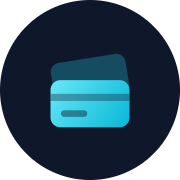
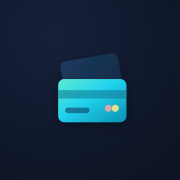
Add files via upload

diff --git a/js/creditos-ui.js b/js/creditos-ui.js
@@ -575,6 +575,7 @@ function confirmImportCreditoPlan(){
 
 let creditoOcultarPagadas=true;
 let _pendingEditCredito=null; // {id, apply()} — cambios de saveEditCredito pendientes de confirmar cuando hay abonos registrados
+let _pendingEditCreditoCuotaManual=null; // {id, continuar(limpiarCuotaManual)} — ver aviso de "cuota manual fija" en saveEditCredito
 // true cuando se entró al detalle del crédito desde el modal "Créditos" (openCreditosMenu,
 // atajo del dashboard); false cuando se entró desde la pestaña Créditos/tarjeta (vista de
 // fondo, no modal). El botón "Volver" del detalle lo usa para decidir si debe reabrir ese
@@ -804,18 +805,20 @@ function editCredito(id){
   const fechaActualEdit=(crPickerSnapshot&&('cr-edit-fecha' in crPickerSnapshot))?crPickerSnapshot['cr-edit-fecha']:cr.fechaInicio;
   openModal('<div class="mtitle">Editar crédito</div>'
     +warnPagos
-    +stdFormHeroCardHtml(stdFormNombreValorHtml('cr-edit-nombre',cr.nombre,'','cr-edit-valor',cr.valorPrestamo,'COP · valor del préstamo','var(--pur)'))
+    +stdFormHeroCardHtml(stdFormNombreValorHtml('cr-edit-nombre',cr.nombre,'','cr-edit-valor',cr.valorPrestamo,'COP · valor del préstamo','var(--pur)','updateCuotaSugeridaEdit()'))
     +'<div style="display:grid;grid-template-columns:1fr 1fr;gap:8px">'
-    +'<div class="field" style="margin:0"><label>% AVAL</label><input id="cr-edit-aval" type="number" step="0.01" value="'+(cr.pctAval||0)+'"></div>'
-    +'<div class="field" style="margin:0"><label>Cuotas</label><input id="cr-edit-cuotas" type="number" value="'+cr.cuotas+'"></div>'
+    +'<div class="field" style="margin:0"><label>% AVAL</label><input id="cr-edit-aval" type="number" step="0.01" value="'+(cr.pctAval||0)+'" oninput="updateCuotaSugeridaEdit()"></div>'
+    +'<div class="field" style="margin:0"><label>Cuotas</label><input id="cr-edit-cuotas" type="number" value="'+cr.cuotas+'" oninput="updateCuotaSugeridaEdit()"></div>'
     +'</div>'
     +'<div style="display:grid;grid-template-columns:1fr 1fr;gap:8px;margin-top:8px;align-items:end">'
-    +'<div class="field" style="margin:0"><label>Tasa de interés %</label><input id="cr-edit-tasa" type="number" step="0.01" value="'+(cr.tasa||0)+'"></div>'
+    +'<div class="field" style="margin:0"><label>Tasa de interés %</label><input id="cr-edit-tasa" type="number" step="0.01" value="'+(cr.tasa||0)+'" oninput="updateCuotaSugeridaEdit()"></div>'
     +stdFormDateFieldHtml('cr-edit-fecha','Fecha inicio',fechaActualEdit)
     +'</div>'
     +frecuenciaFieldHtml('cr-edit-frec',frecActual)
     +'<div class="field" style="margin-top:8px"><label>Valor de cuota manual (opcional)</label>'
-    +'<input id="cr-edit-cuota-manual" type="text" inputmode="numeric" value="'+(cr.valorCuotaManual?moneyInputFmt(cr.valorCuotaManual):'')+'" placeholder="Se sugiere automáticamente" oninput="maskMoneyInput(this)"></div>'
+    +'<input id="cr-edit-cuota-manual" type="text" inputmode="numeric" value="'+(cr.valorCuotaManual?moneyInputFmt(cr.valorCuotaManual):'')+'" placeholder="Se sugiere automáticamente" oninput="maskMoneyInput(this)">'
+    +'<div id="cr-edit-cuota-sugerida-txt" style="font-size:11px;color:var(--acc);margin-top:4px"></div>'
+    +'</div>'
     +'<div class="cbx-row" style="margin-top:2px"><input type="checkbox" id="cr-edit-esmens"'+(cr.esMensualidad?' checked':'')+'>'
     +'<label for="cr-edit-esmens" style="font-size:13px;color:var(--txt)">Es una mensualidad (colegio, transporte, suscripción...)</label></div>'
     +tarjetaVinculadaFieldHtml(tcVincActual||null)
@@ -823,6 +826,33 @@ function editCredito(id){
     +'<button class="bcnl" onclick="openCreditoDetalle(\''+id+'\')">Cancelar</button>'
     +'<button class="bpri" onclick="saveEditCredito(\''+id+'\')">Guardar</button>'
     +'</div>');
+  // A diferencia del formulario de crédito NUEVO (que arranca vacío y solo muestra la cuota
+  // sugerida cuando el usuario empieza a escribir), acá los campos ya traen los valores
+  // actuales del crédito — se calcula de una vez para que el placeholder no aparezca vacío.
+  updateCuotaSugeridaEdit();
+}
+// Espejo de updateCuotaSugerida() (creación) para el formulario de edición — mismos campos,
+// con el prefijo "cr-edit-" en vez de "cr-".
+function updateCuotaSugeridaEdit(){
+  const valor=moneyVal('cr-edit-valor');
+  const pctAval=parseFloat(document.getElementById('cr-edit-aval')?.value)||0;
+  const cuotas=parseInt(document.getElementById('cr-edit-cuotas')?.value)||0;
+  const tasaPct=parseFloat(document.getElementById('cr-edit-tasa')?.value)||0;
+  const txtEl=document.getElementById('cr-edit-cuota-sugerida-txt');
+  const inputManual=document.getElementById('cr-edit-cuota-manual');
+  if(!txtEl) return;
+  if(valor>0 && cuotas>0){
+    const aval=Math.round(valor*(pctAval/100));
+    const total=valor+aval;
+    const tasa=tasaPct/100;
+    const pmt=calcCuotaPMT(total,tasa,cuotas);
+    const pmtRedondeado=Math.round(pmt);
+    txtEl.innerHTML='AVAL: '+cop(aval)+' · Total: '+cop(total)+'<br>Cuota sugerida: '+cop(pmtRedondeado);
+    if(inputManual) inputManual.placeholder=cop(pmtRedondeado)+' (sugerida)';
+  } else {
+    txtEl.textContent='';
+    if(inputManual) inputManual.placeholder='Se sugiere automáticamente';
+  }
 }
 function saveEditCredito(id){
   const cr=creditos[id]; if(!cr) return;
@@ -862,15 +892,37 @@ function saveEditCredito(id){
   // nuevo (donde basta con borrar creditos[id]), acá cr YA es un objeto en uso; sin revertir,
   // un error a mitad de camino dejaba el crédito con campos nuevos pero sin invalidar/guardar,
   // en un estado a medias que solo se notaba al ver números raros más adelante.
-  function aplicarCambiosEdicion(){
+  function aplicarCambiosEdicion(opts){
+    opts=opts||{};
     const snapshot={nombre:cr.nombre,valorPrestamo:cr.valorPrestamo,pctAval:cr.pctAval,cuotas:cr.cuotas,
       tasa:cr.tasa,fechaInicio:cr.fechaInicio,frecuencia:cr.frecuencia,valorCuotaManual:cr.valorCuotaManual,
       esMensualidad:cr.esMensualidad,tcVinculada:cr.tcVinculada};
     try{
       cr.nombre=nombre; cr.valorPrestamo=valorPrestamo; cr.pctAval=pctAval;
       cr.cuotas=cuotas; cr.tasa=tasa; cr.fechaInicio=fechaInicio; cr.frecuencia=frecuencia;
-      cr.valorCuotaManual=cuotaManual; cr.esMensualidad=esMensualidad; cr.tcVinculada=tcVinculada;
+      // opts.limpiarCuotaManual=true: el usuario eligió "recalcular automático" en el aviso de
+      // cuota manual fija (ver más abajo) — se ignora el valor que haya quedado en el campo y se
+      // deja que calcAmortizacionSinCache vuelva a calcularla con la fórmula PMT normal.
+      cr.valorCuotaManual=opts.limpiarCuotaManual?null:cuotaManual;
+      cr.esMensualidad=esMensualidad; cr.tcVinculada=tcVinculada;
       invalidarAmortCache(id); // los campos que definen la tabla de amortización cambiaron
+
+      // calcAmortizacion ya recalcula las cuotas FUTURAS con los nuevos datos y deja las YA
+      // PAGADAS tal cual (usa el monto realmente pagado, no el teórico — ver
+      // calcAmortizacionSinCache), pero eso solo afecta lo que se MUESTRA en el detalle del
+      // crédito: los gastos que ya existían para esas cuotas futuras se quedaban con el valor
+      // viejo. Se sincronizan acá, cuota por cuota, dejando intacta la que ya esté pagada.
+      var amortNueva=calcAmortizacion(cr);
+      Object.keys(db).forEach(function(k){
+        var mesC=db[k];
+        [mesC.q1_gastos||[], mesC.q2_gastos||[]].forEach(function(list){
+          (list||[]).forEach(function(g){
+            if(g.creditoId!==id || !g.numCuota || gastoEstado(g)==='pagado') return;
+            var row=amortNueva.rows[g.numCuota-1];
+            if(row) g.presupuesto=row.valorCuota;
+          });
+        });
+      });
 
       // Igual que antes al renombrar: actualizar el nombre en los gastos ya generados que lo referencian
       if(nombreViejo!==nombre){
@@ -897,17 +949,46 @@ function saveEditCredito(id){
   // Los abonos a capital (cr.abonos) están anclados a la estructura de cuotas anterior — si el
   // usuario cambia valor/tasa/plazo/fecha, esos índices dejan de tener sentido. Se avisa y se
   // limpia el historial de abonos antes de aplicar los cambios (los pagos ya marcados no se pierden).
-  if(cr.abonos && cr.abonos.length){
-    _pendingEditCredito={id:id, apply:aplicarCambiosEdicion};
-    openModal('<div class="mtitle">¿Editar crédito?</div>'
-      +'<p style="font-size:13px;color:var(--mut);margin-bottom:16px">Este crédito tiene <b>'+cr.abonos.length+' abono(s) a capital</b> registrados. Editar los datos del crédito elimina el historial de esos abonos (el saldo de las cuotas ya pagadas no se pierde, pero el registro del abono sí). ¿Continuar?</p>'
-      +'<div class="macts">'
-      +'<button class="bcnl" onclick="editCredito(\''+id+'\')">Cancelar</button>'
-      +'<button class="bpri" style="background:var(--red);color:#fff" onclick="confirmarEditCreditoConAbonos(\''+id+'\')">Continuar</button>'
-      +'</div>');
+  function procederConValidacionAbonos(limpiarCuotaManual){
+    if(cr.abonos && cr.abonos.length){
+      _pendingEditCredito={id:id, apply:function(){ aplicarCambiosEdicion({limpiarCuotaManual:limpiarCuotaManual}); }};
+      openModal('<div class="mtitle">¿Editar crédito?</div>'
+        +'<p style="font-size:13px;color:var(--mut);margin-bottom:16px">Este crédito tiene <b>'+cr.abonos.length+' abono(s) a capital</b> registrados. Editar los datos del crédito elimina el historial de esos abonos (el saldo de las cuotas ya pagadas no se pierde, pero el registro del abono sí). ¿Continuar?</p>'
+        +'<div class="macts">'
+        +'<button class="bcnl" onclick="editCredito(\''+id+'\')">Cancelar</button>'
+        +'<button class="bpri" style="background:var(--red);color:#fff" onclick="confirmarEditCreditoConAbonos(\''+id+'\')">Continuar</button>'
+        +'</div>');
+      return;
+    }
+    aplicarCambiosEdicion({limpiarCuotaManual:limpiarCuotaManual});
+  }
+
+  // Si el crédito tenía una CUOTA MANUAL fija y el usuario no la tocó (sigue igual en el
+  // formulario) pero sí cambió valor/tasa/plazo/fecha, esa cuota fija se quedaría desalineada
+  // con los nuevos datos — la fórmula PMT la ignora por completo mientras exista (ver
+  // calcAmortizacionSinCache), así que ninguna cuota futura reflejaría el cambio salvo la última
+  // (que siempre se ajusta sola para cerrar el saldo). Se avisa y se deja elegir en vez de
+  // decidir en silencio por el usuario.
+  const datosFormaCambiaron=valorPrestamo!==cr.valorPrestamo||tasa!==cr.tasa||cuotas!==cr.cuotas||frecuencia!==cr.frecuencia||fechaInicio!==cr.fechaInicio;
+  const cuotaManualSinTocar=cr.valorCuotaManual&&cuotaManual===cr.valorCuotaManual;
+  if(datosFormaCambiaron&&cuotaManualSinTocar){
+    _pendingEditCreditoCuotaManual={id:id, continuar:procederConValidacionAbonos};
+    openModal('<div class="mtitle">Cuota manual fija</div>'
+      +'<p style="font-size:13px;color:var(--mut);line-height:1.5;margin-bottom:16px">Este crédito tiene una <b>cuota manual fija de '+cop(cr.valorCuotaManual)+'</b>. Cambiaste el valor, la tasa, el plazo o la fecha del crédito — ¿mantienes esa cuota fija (las demás no cambiarán) o dejas que la app la recalcule automáticamente con los nuevos datos?</p>'
+      +'<div style="display:flex;flex-direction:column;gap:10px">'
+      +'<button class="bcnl" onclick="procederEdicionCuotaManual(\''+id+'\',false)">Recalcular automáticamente</button>'
+      +'<button class="bcnl" onclick="procederEdicionCuotaManual(\''+id+'\',true)">Mantener la cuota fija</button>'
+      +'</div>'
+      +'<div class="macts" style="margin-top:14px"><button class="bcnl" style="grid-column:1/-1" onclick="editCredito(\''+id+'\')">Cancelar</button></div>');
     return;
   }
-  aplicarCambiosEdicion();
+  procederConValidacionAbonos(false);
+}
+function procederEdicionCuotaManual(id,mantener){
+  if(!_pendingEditCreditoCuotaManual||_pendingEditCreditoCuotaManual.id!==id) return;
+  const continuar=_pendingEditCreditoCuotaManual.continuar;
+  _pendingEditCreditoCuotaManual=null;
+  continuar(!mantener);
 }
 
 function confirmarEditCreditoConAbonos(id){

diff --git a/js/agenda.js b/js/agenda.js
@@ -308,8 +308,13 @@ function agFilaHtml(e){
       +'</div>';
   }
 
-  var clickable=(e.origen==='manual');
-  var onclickRow=clickable?(' onclick="agAbrirDetalle(\''+e.id+'\')"'):'';
+  // Antes solo las manuales eran clickeables: las "derivadas" (gastos sin pagar vencidos) no
+  // tenían ninguna acción posible en la Agenda y se quedaban mostrando "vencido" para siempre,
+  // sin forma de resolverlas sin salir a la pestaña Gastos (ver agAbrirDetalleGastoVencido).
+  var clickable=(e.origen==='manual'||e.origen==='derivado');
+  var onclickRow=!clickable?'':(e.origen==='derivado'
+    ?(' onclick="agAbrirDetalleGastoVencido(\''+e.gastoId+'\',\''+e.which+'\')"')
+    :(' onclick="agAbrirDetalle(\''+e.id+'\')"'));
 
   return '<div'+onclickRow+' style="padding:8px 12px 8px 0;background:'+bg+';border:1px solid '+bd+';border-radius:13px;display:flex;align-items:center;gap:11px;overflow:hidden;margin-bottom:6px;min-height:40px'+(clickable?';cursor:pointer':'')+'">'
     +'<div style="width:3px;align-self:stretch;border-radius:0 2px 2px 0;background:'+barra+';flex-shrink:0"></div>'
@@ -336,11 +341,49 @@ function agAbrirDetalle(id){
   var m=getM();
   var it=agendaArr(m).find(function(x){return x.id===id;});
   if(!it) return;
+  // Un recordatorio de pago enlazado a un gasto, mientras ese gasto siga sin pagar, puede
+  // resolverse de una vez acá mismo (ver agMarcarRecordatorioPagado) — antes la única forma
+  // de "completarlo" era ir a editar el gasto en la pestaña Gastos.
+  var gasto=it.gastoId?agBuscarGasto(m,it.gastoId,it.which):null;
+  var pendienteDePago=it.tipo==='pago'&&gasto&&gastoEstado(gasto)!=='pagado';
   openModal('<div class="mtitle">'+(it.tipo==='tarea'?'Tarea':'Recordatorio')+'</div>'
     +'<p style="font-size:14px;color:var(--txt);font-weight:600;margin-bottom:6px">'+esc(it.concepto)+'</p>'
     +'<p style="font-size:12px;color:var(--mut);margin-bottom:16px">'+fmtD(it.fecha)+(it.hora?(' · '+it.hora):'')+(it.monto?(' · '+cop(it.monto)):'')+(it.gastoId?' · enlazado a un gasto':'')+'</p>'
+    +(pendienteDePago?'<button class="bpri" style="width:100%;margin-bottom:10px" onclick="agMarcarRecordatorioPagado(\''+id+'\')">Marcar como pagado</button>':'')
     +'<div class="macts"><button class="bcnl" onclick="closeModal()">Cerrar</button>'
     +'<button class="bpri" style="background:var(--red);color:#fff" onclick="agConfirmarBorrar(\''+id+'\')">Eliminar</button></div>');
+}
+// Pagar el gasto enlazado tilda el recordatorio solo (gastoPagado se recalcula en vivo, ver
+// agEntradaManualEnriquecida) y, si era recurrente, genera de una vez el siguiente periodo
+// (marcarGastoPagado -> agSincronizarDesdeGasto).
+function agMarcarRecordatorioPagado(id){
+  var m=getM();
+  var it=agendaArr(m).find(function(x){return x.id===id;});
+  if(!it||!it.gastoId){ closeModal(); return; }
+  var gasto=agBuscarGasto(m,it.gastoId,it.which);
+  if(!gasto){ closeModal(); return; }
+  marcarGastoPagado(gasto,m);
+  save();closeModal();render();toast('Gasto marcado como pagado ✓');
+}
+// Detalle de una entrada "derivada" (gasto de nivel superior marcado "sin pagar" que venció,
+// ver agEntradasDerivadas) — no vive en m.agenda, así que no tiene un "id" propio: se
+// identifica por el gasto + quincena que representa.
+function agAbrirDetalleGastoVencido(gastoId,which){
+  var m=getM();
+  var gasto=agBuscarGasto(m,gastoId,which);
+  if(!gasto) return;
+  openModal('<div class="mtitle">Gasto sin pagar</div>'
+    +'<p style="font-size:14px;color:var(--txt);font-weight:600;margin-bottom:6px">'+esc(nombreGasto(gasto))+'</p>'
+    +'<p style="font-size:12px;color:var(--mut);margin-bottom:16px">'+cop(Math.abs(gasto.presupuesto||0))+' · vencido</p>'
+    +'<div class="macts"><button class="bcnl" onclick="closeModal()">Cerrar</button>'
+    +'<button class="bpri" onclick="agMarcarGastoVencidoPagado(\''+gastoId+'\',\''+which+'\')">Marcar como pagado</button></div>');
+}
+function agMarcarGastoVencidoPagado(gastoId,which){
+  var m=getM();
+  var gasto=agBuscarGasto(m,gastoId,which);
+  if(!gasto){ closeModal(); return; }
+  marcarGastoPagado(gasto,m);
+  save();closeModal();render();toast('Gasto marcado como pagado ✓');
 }
 function agConfirmarBorrar(id){
   var m=getM();

diff --git a/sw.js b/sw.js
@@ -1,7 +1,7 @@
 // Sube este número cada vez que despliegues cambios en index.html/CSS/JS.
 // Si lo olvidas, los usuarios seguirán viendo la versión anterior offline
 // hasta que haya red disponible para revalidar.
-const CACHE_VERSION = '2.91';
+const CACHE_VERSION = '2.6';
 const CACHE = 'finanzas-' + CACHE_VERSION;
 const FILES = ['./', './index.html', './style.css',
   './js/core.js', './js/state.js', './js/auth.js', './js/creditos-calculo.js', './js/creditos-ui.js',

diff --git a/index.html b/index.html
@@ -72,7 +72,7 @@
     <!-- Texto de respaldo: debe coincidir con CACHE_VERSION en sw.js. app.js lo actualiza
          en cuanto el service worker responde el postMessage GET_VERSION; esto es solo lo
          que se ve mientras esa respuesta no ha llegado (o si falla). -->
-    <div class="lock-version" id="lockVersion">V 2.91 &bull; Powered by Felipe Ocampo</div>
+    <div class="lock-version" id="lockVersion">V 2.6 &bull; Powered by Felipe Ocampo</div>
   </div>
 </div>
 
